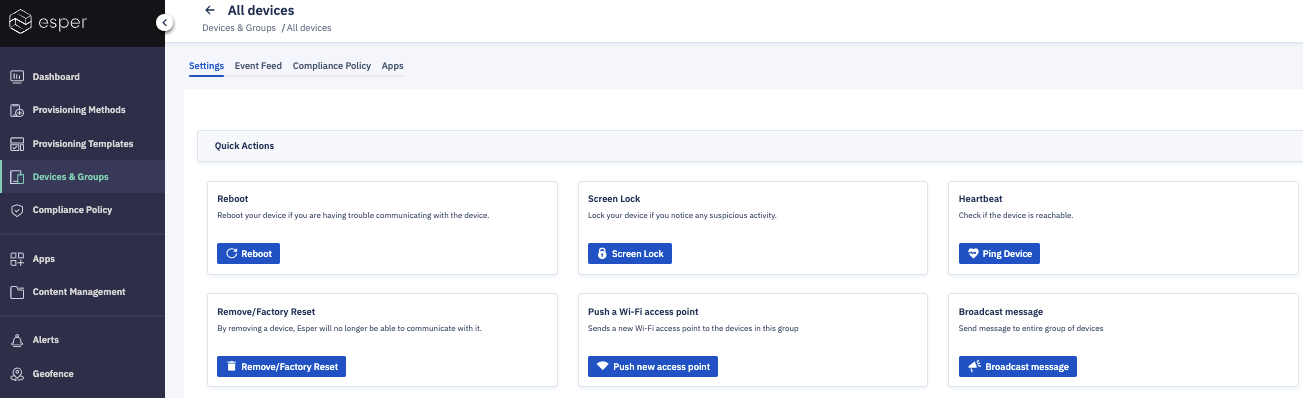
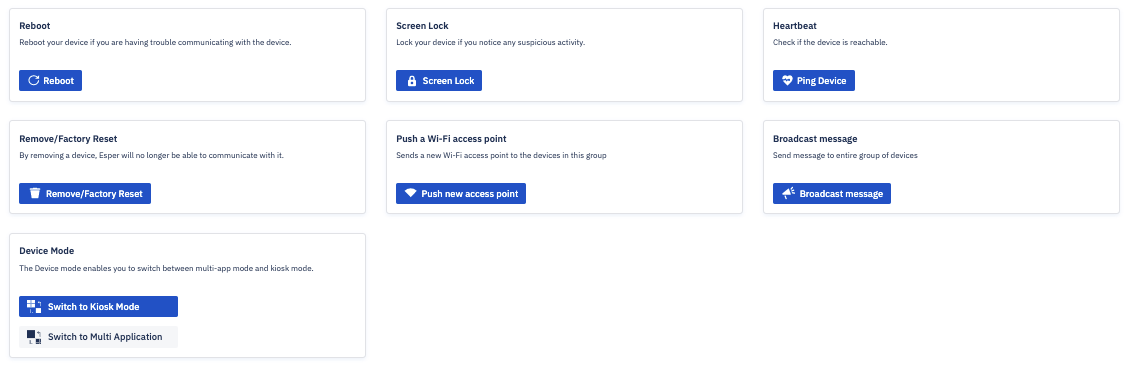
Added device mode for group level.

diff --git a/docs/devices-groups/groups-settings.md b/docs/devices-groups/groups-settings.md
@@ -154,7 +154,20 @@ When you select the ‘Schedule Delivery’ checkbox, the message will be sent o
 ![schedule delivery](./images/groupsettings/14_DeviceGroup_Manage_Settings_QuickActions_Broadcast_Message__new_message_schedule_delivery.png)
 
   
-  
+ ###  Device Mode
+
+ Device Mode allows you to change the mode of all the devices in the group. You can switch between the Kiosk Mode and Multi App Mode at the group level. 
+
+ ![Device mode](./images/groupsettings/14.1_DeviceMode.png)
+
+When you click 'Switch to Kiosk Mode,' you will choose an application for the Kiosk. You can queue the offline devices to switch mode once the devices are online. 
+
+![Device mode](./images/groupsettings/14.2_KioskMode.png)
+
+When you click 'Switch to Multi Application,' you can see the number of online and offline devices.  You can queue the offline devices to switch mode once the devices are online. 
+
+![Device mode](./images/groupsettings/14.3_MultiMode.png)
+
 
 ### Changing the Display Settings for a Group of Devices from the Console
 
